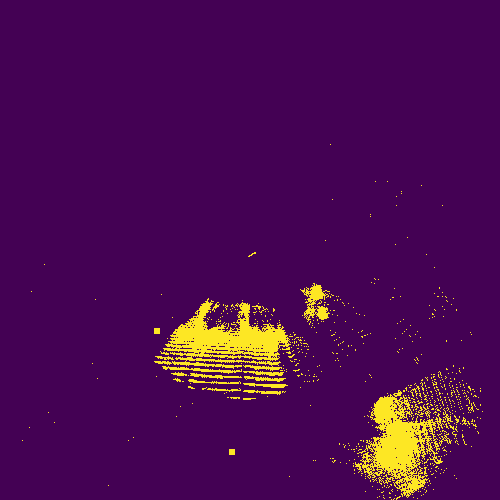
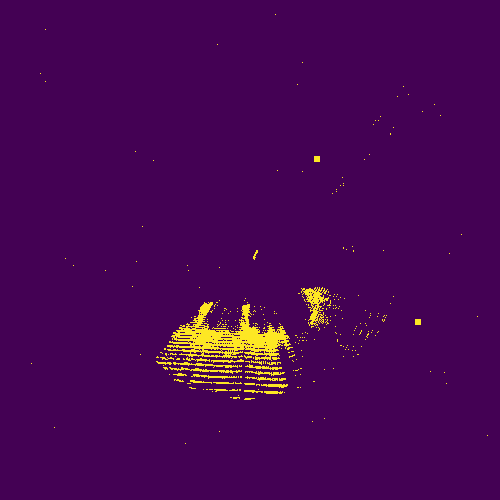
Orientation was fixed

diff --git a/route_planning/src/Astar.py b/route_planning/src/Astar.py
@@ -23,7 +23,7 @@ class Astar:
         self.res = res
         self.tf_prefix = tf_prefix
         self.scanning_range = np.inf
-        self.num_of_temp_nodes = 50
+        self.num_of_temp_nodes = 100
         self.use_dict_drone = False
 
     def PlanningAlg(self, sx, sy, gx, gy):

diff --git a/route_planning/src/LocalMissionPlanner.py b/route_planning/src/LocalMissionPlanner.py
@@ -43,7 +43,7 @@ class LocalMissionPlanner:
         # angle = math.atan2(vec_dir[1], vec_dir[0])
         if math.isnan(angle):
             angle = 0
-        return angle
+        return self.curyaw + angle
 
     def MaintainSearchState(self):
 
